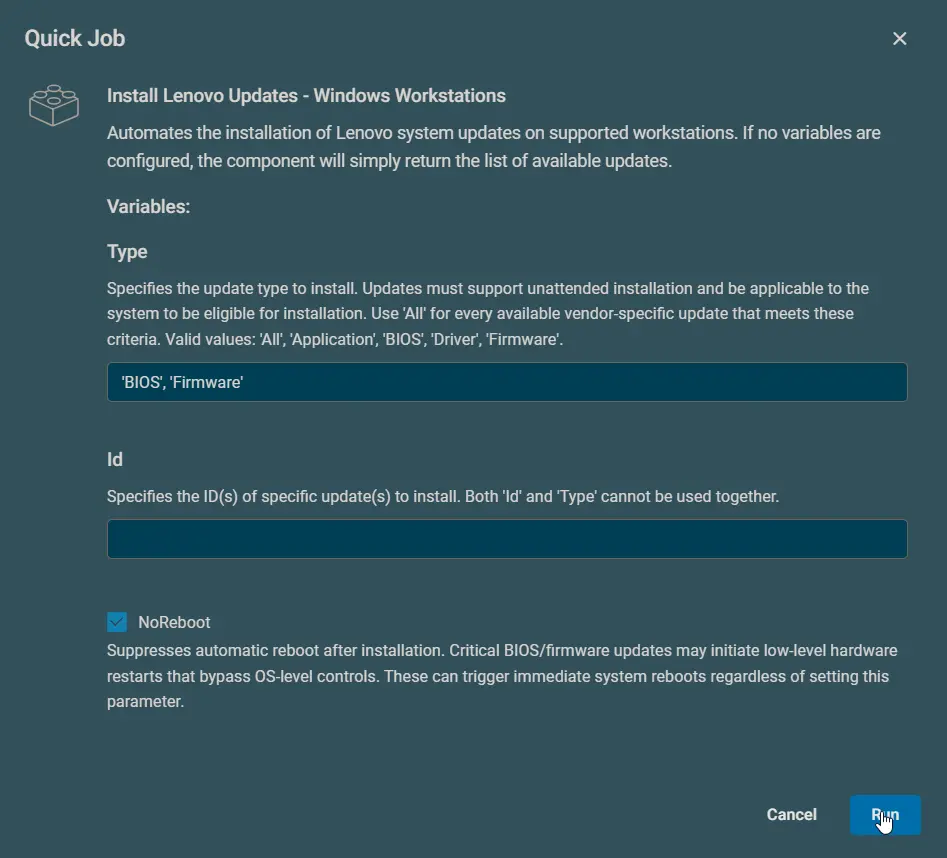
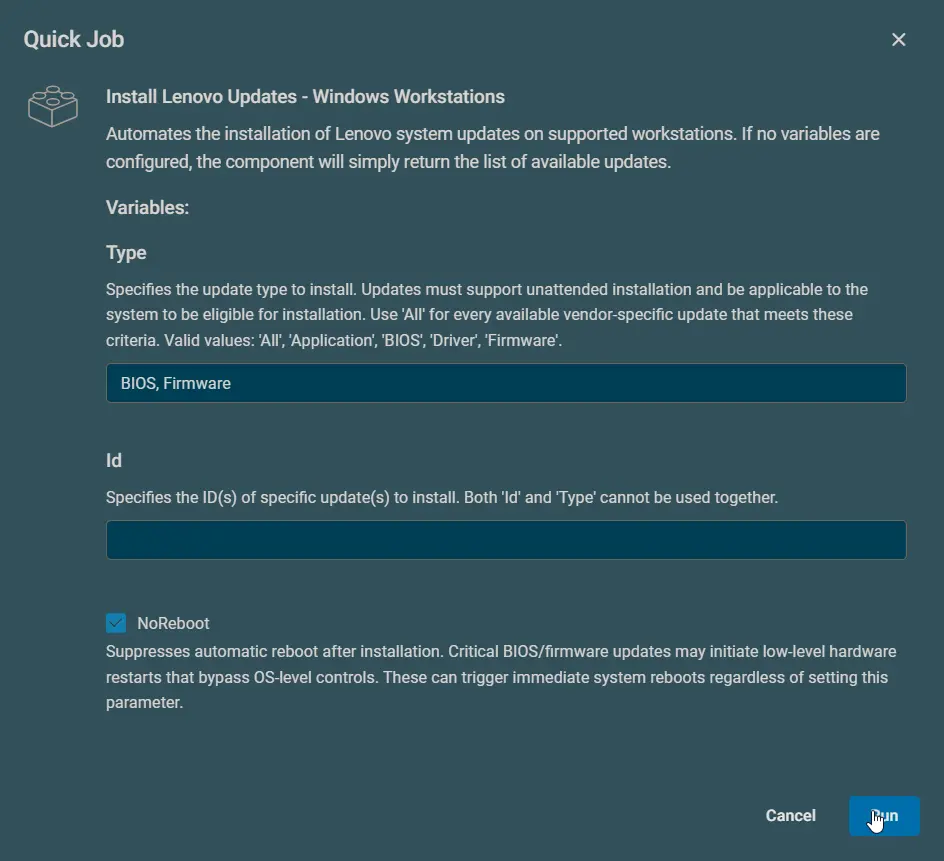
Install Lenovo Updates Windows Workstations
- Updated the component to accept parameters without quotations

diff --git a/docs/dattormm/components/install-lenovo-updates-windows-workstations.md b/docs/dattormm/components/install-lenovo-updates-windows-workstations.md
@@ -21,6 +21,7 @@ Automates the installation of Lenovo system updates on supported workstations. I
 - **Power continuity**: Ensure uninterrupted power supply during firmware updates
 - **Unattended requirement**: Type-based installations only process updates supporting silent installation
 - **ID exceptions**: Updates installed by ID ignore unattended installation requirements
+- **Parameter Handling**: If both `Type` and `Id` parameters are specified, the `Type` parameter will take precedence.
 
 ## Dependencies
 
@@ -65,8 +66,8 @@ Automates the installation of Lenovo system updates on supported workstations. I
 
 | Variable Name | Example | Type | Default | Description |
 | ------------- | ------- | ---- | ------- | ----------- |
-| Type | <ul><li>All</li><li>'Application', 'BIOS', 'Driver'</li><li>'Firmware', 'BIOS'</li><li>Driver</li><li>Firmware</li><li>BIOS</li></ul> | String | | Specifies the update type to install. Updates must support unattended installation and be applicable to the system to be eligible for installation. Use 'All' for every available vendor-specific update that meets these criteria. Valid values: 'All', 'Application', 'BIOS', 'Driver', 'Firmware'. | 
-| Id | <ul><li>pcieeth06w_w11</li><li>'pcieeth06w_w11', 'n3ch101w_bisbnk919kse' | String | | Specifies the ID(s) of specific update(s) to install. Both 'Id' and 'Type' cannot be used together. |
+| Type | <ul><li>All</li><li>Application, BIOS, Driver</li><li>Firmware, BIOS</li><li>Driver</li><li>Firmware</li><li>BIOS</li></ul> | String | | Specifies the update type to install. Updates must support unattended installation and be applicable to the system to be eligible for installation. Use 'All' for every available vendor-specific update that meets these criteria. Valid values: All, Application, BIOS, Driver, Firmware. | 
+| Id | <ul><li>pcieeth06w_w11</li><li>pcieeth06w_w11, n3ch101w_bisbnk919kse | String | | Specifies the ID(s) of specific update(s) to install. Both 'Id' and 'Type' cannot be used together. |
 | NoReboot | | Boolean | False | Suppresses automatic reboot after installation. Critical BIOS/firmware updates may initiate low-level hardware restarts that bypass OS-level controls. These can trigger immediate system reboots regardless of setting this parameter. |
 
 ## Output
